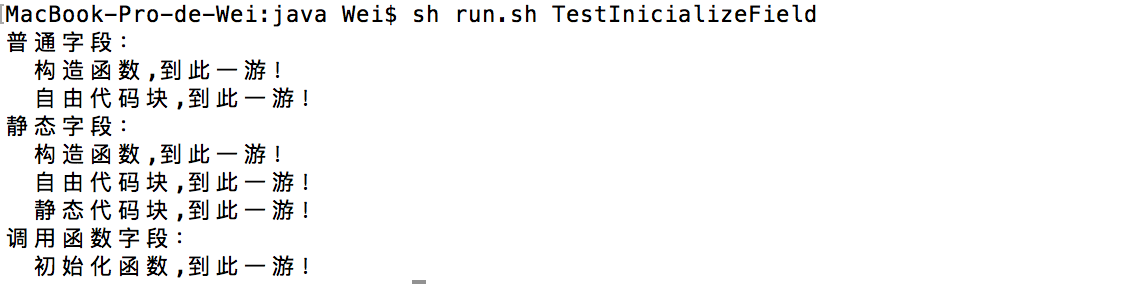
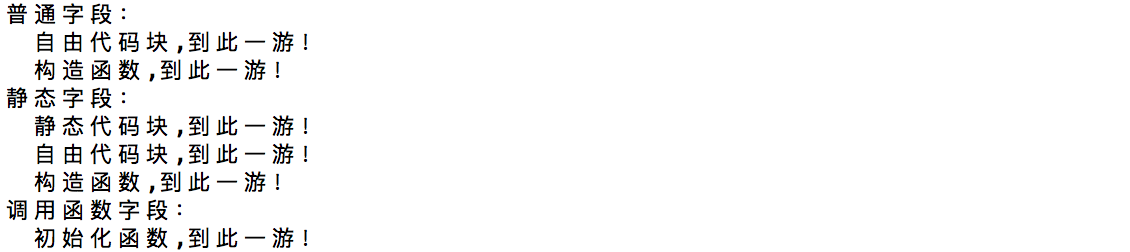
Hexo update!

Changed region(s): [[0.0, 0.0, 0.7447, 1.0], [0.3413, 0.9722, 0.3723, 1.0]]

diff --git a/2016/03/09/tij4-3/index.html b/2016/03/09/tij4-3/index.html
@@ -57,20 +57,21 @@
 
 
 
-<meta name="description" content="要认真看看Java Turorial：Java字段初始化实例化的方法：静态或者final初始化block。我这里搬运一下：
-可以简单在声明的同一行里，同时初始化，比如简单赋值（默认值）或者实例化（用new关键字），是可以的。比如，12345678public class BedAndBreakfast &amp;#123;    // initialize to 10    public static i">
+<meta name="description" content="摘要类中字段的初始化第二章课后练习的第11题中，遇到了字段初始化的问题。认真看了Java Turorial：Java字段初始化实例化的方法：静态或者final初始化block。我这里做个总结，然后通过一个示例具体演示一下。
+Java在声明类的字段的时候，可以简单在声明的同一行里，同时初始化，比如简单赋值（默认值）或者实例化（用new关键字）。比如以下代码，12345678public class">
 <meta property="og:type" content="article">
 <meta property="og:title" content="Think in Java 读书笔记：第三章 - 操作符">
 <meta property="og:url" content="www.ciaoshen.com/2016/03/09/tij4-3/index.html">
 <meta property="og:site_name" content="沈玮 | Wei SHEN">
-<meta property="og:description" content="要认真看看Java Turorial：Java字段初始化实例化的方法：静态或者final初始化block。我这里搬运一下：
-可以简单在声明的同一行里，同时初始化，比如简单赋值（默认值）或者实例化（用new关键字），是可以的。比如，12345678public class BedAndBreakfast &amp;#123;    // initialize to 10    public static i">
+<meta property="og:description" content="摘要类中字段的初始化第二章课后练习的第11题中，遇到了字段初始化的问题。认真看了Java Turorial：Java字段初始化实例化的方法：静态或者final初始化block。我这里做个总结，然后通过一个示例具体演示一下。
+Java在声明类的字段的时候，可以简单在声明的同一行里，同时初始化，比如简单赋值（默认值）或者实例化（用new关键字）。比如以下代码，12345678public class">
 <meta property="og:image" content="www.ciaoshen.com/uploads/tij4-3/oop_3.png">
-<meta property="og:updated_time" content="2016-03-09T22:03:23.000Z">
+<meta property="og:image" content="www.ciaoshen.com/uploads/tij4-3/initializeTest.png">
+<meta property="og:updated_time" content="2016-03-09T23:21:18.000Z">
 <meta name="twitter:card" content="summary">
 <meta name="twitter:title" content="Think in Java 读书笔记：第三章 - 操作符">
-<meta name="twitter:description" content="要认真看看Java Turorial：Java字段初始化实例化的方法：静态或者final初始化block。我这里搬运一下：
-可以简单在声明的同一行里，同时初始化，比如简单赋值（默认值）或者实例化（用new关键字），是可以的。比如，12345678public class BedAndBreakfast &amp;#123;    // initialize to 10    public static i">
+<meta name="twitter:description" content="摘要类中字段的初始化第二章课后练习的第11题中，遇到了字段初始化的问题。认真看了Java Turorial：Java字段初始化实例化的方法：静态或者final初始化block。我这里做个总结，然后通过一个示例具体演示一下。
+Java在声明类的字段的时候，可以简单在声明的同一行里，同时初始化，比如简单赋值（默认值）或者实例化（用new关键字）。比如以下代码，12345678public class">
 
 
 
@@ -340,22 +341,32 @@
 
       
         <p><img src="/uploads/tij4-3/oop_3.png" alt="oop_3"></p>
-<p>要认真看看Java Turorial：<a href="https://docs.oracle.com/javase/tutorial/java/javaOO/initial.html" target="_blank" rel="external"><strong>Java字段初始化实例化的方法：静态或者final初始化block</strong></a>。我这里搬运一下：</p>
-<p>可以简单在声明的同一行里，同时初始化，比如简单赋值（默认值）或者实例化（用new关键字），是可以的。比如，<br><figure class="highlight java"><table><tr><td class="gutter"><pre><span class="line">1</span><br><span class="line">2</span><br><span class="line">3</span><br><span class="line">4</span><br><span class="line">5</span><br><span class="line">6</span><br><span class="line">7</span><br><span class="line">8</span><br></pre></td><td class="code"><pre><span class="line"><span class="keyword">public</span> <span class="class"><span class="keyword">class</span> <span class="title">BedAndBreakfast</span> </span>&#123;</span><br><span class="line"></span><br><span class="line">    <span class="comment">// initialize to 10</span></span><br><span class="line">    <span class="keyword">public</span> <span class="keyword">static</span> <span class="keyword">int</span> capacity = <span class="number">10</span>;</span><br><span class="line"></span><br><span class="line">    <span class="comment">// initialize to false</span></span><br><span class="line">    <span class="keyword">private</span> <span class="keyword">boolean</span> full = <span class="keyword">false</span>;</span><br><span class="line">&#125;</span><br></pre></td></tr></table></figure></p>
-<p>但是，在声明后面直接跟复杂的对实例赋值，java是不允许的。比如这题我的HashMap的初始化，java一直报错。这时候放在构造方法里，是最保险的方法。比如这题我的处理方法，在构造方法里初始化HashMap，为其赋值。</p>
-<p>但还有三种方法允许我们把实例化赋值过程放到一个“特殊方法”里。</p>
+<h3 id="摘要"><a href="#摘要" class="headerlink" title="摘要"></a>摘要</h3><h3 id="类中字段的初始化"><a href="#类中字段的初始化" class="headerlink" title="类中字段的初始化"></a>类中字段的初始化</h3><p>第二章课后练习的第11题中，遇到了字段初始化的问题。认真看了Java Turorial：<a href="https://docs.oracle.com/javase/tutorial/java/javaOO/initial.html" target="_blank" rel="external"><strong>Java字段初始化实例化的方法：静态或者final初始化block</strong></a>。我这里做个总结，然后通过一个示例具体演示一下。</p>
+<p>Java在声明类的字段的时候，可以简单在声明的同一行里，同时初始化，比如简单赋值（默认值）或者实例化（用new关键字）。比如以下代码，<br><figure class="highlight java"><table><tr><td class="gutter"><pre><span class="line">1</span><br><span class="line">2</span><br><span class="line">3</span><br><span class="line">4</span><br><span class="line">5</span><br><span class="line">6</span><br><span class="line">7</span><br><span class="line">8</span><br></pre></td><td class="code"><pre><span class="line"><span class="keyword">public</span> <span class="class"><span class="keyword">class</span> <span class="title">BedAndBreakfast</span> </span>&#123;</span><br><span class="line"></span><br><span class="line">    <span class="comment">// initialize to 10</span></span><br><span class="line">    <span class="keyword">public</span> <span class="keyword">static</span> <span class="keyword">int</span> capacity = <span class="number">10</span>;</span><br><span class="line"></span><br><span class="line">    <span class="comment">// initialize to false</span></span><br><span class="line">    <span class="keyword">private</span> <span class="keyword">boolean</span> full = <span class="keyword">false</span>;</span><br><span class="line">&#125;</span><br></pre></td></tr></table></figure></p>
+<p>但是，在声明后面直接跟复杂的对实例赋值，java是不允许的。比如以下代码，<br><figure class="highlight java"><table><tr><td class="gutter"><pre><span class="line">1</span><br><span class="line">2</span><br><span class="line">3</span><br><span class="line">4</span><br><span class="line">5</span><br><span class="line">6</span><br><span class="line">7</span><br><span class="line">8</span><br><span class="line">9</span><br><span class="line">10</span><br><span class="line">11</span><br><span class="line">12</span><br><span class="line">13</span><br><span class="line">14</span><br></pre></td><td class="code"><pre><span class="line"><span class="keyword">public</span> <span class="class"><span class="keyword">class</span> <span class="title">BedAndBreakfast</span> </span>&#123;</span><br><span class="line"></span><br><span class="line">    <span class="comment">// initialize to 10</span></span><br><span class="line">    <span class="keyword">public</span> <span class="keyword">static</span> <span class="keyword">int</span> capacity = <span class="number">10</span>;</span><br><span class="line">    capacity = <span class="number">21</span>;</span><br><span class="line"></span><br><span class="line">    <span class="comment">// initialize to false</span></span><br><span class="line">    <span class="keyword">private</span> <span class="keyword">boolean</span> full;</span><br><span class="line">    <span class="keyword">if</span> (capacity&gt;<span class="number">20</span>) &#123;</span><br><span class="line">    	full=<span class="keyword">true</span>;</span><br><span class="line">    &#125; <span class="keyword">else</span> &#123;</span><br><span class="line">    	full=<span class="keyword">false</span>;</span><br><span class="line">    &#125;</span><br><span class="line">&#125;</span><br></pre></td></tr></table></figure></p>
+<p>这时候最常用的赋值方法是使用构造函数。比如这样写，把起床后的状态设为：饱了。<br><figure class="highlight java"><table><tr><td class="gutter"><pre><span class="line">1</span><br><span class="line">2</span><br><span class="line">3</span><br><span class="line">4</span><br><span class="line">5</span><br><span class="line">6</span><br><span class="line">7</span><br><span class="line">8</span><br><span class="line">9</span><br><span class="line">10</span><br><span class="line">11</span><br><span class="line">12</span><br><span class="line">13</span><br><span class="line">14</span><br><span class="line">15</span><br><span class="line">16</span><br><span class="line">17</span><br><span class="line">18</span><br></pre></td><td class="code"><pre><span class="line"><span class="keyword">public</span> <span class="class"><span class="keyword">class</span> <span class="title">BedAndBreakfast</span> </span>&#123;</span><br><span class="line"></span><br><span class="line">    <span class="comment">// initialize to 10</span></span><br><span class="line">    <span class="keyword">public</span> <span class="keyword">static</span> <span class="keyword">int</span> capacity = <span class="number">10</span>;</span><br><span class="line"></span><br><span class="line">    <span class="comment">// initialize to false</span></span><br><span class="line">    <span class="keyword">private</span> <span class="keyword">boolean</span> full = <span class="keyword">false</span>;</span><br><span class="line">    </span><br><span class="line">    <span class="comment">//constructor</span></span><br><span class="line">    <span class="function"><span class="keyword">public</span> <span class="title">BedAndBreakfast</span><span class="params">()</span> </span>&#123;</span><br><span class="line">    	capacity=<span class="number">21</span>;</span><br><span class="line">    	<span class="keyword">if</span> (capacity&gt;<span class="number">20</span>) &#123;</span><br><span class="line">    		<span class="keyword">this</span>.full=<span class="keyword">true</span>;</span><br><span class="line">    	&#125; <span class="keyword">else</span> &#123;</span><br><span class="line">    		<span class="keyword">this</span>.full=<span class="keyword">false</span>;</span><br><span class="line">    	&#125;</span><br><span class="line">    &#125;</span><br><span class="line">&#125;</span><br></pre></td></tr></table></figure></p>
+<p>但还有两种方法允许我们定义一个实例化赋值过程。</p>
+<h4 id="第一种：block"><a href="#第一种：block" class="headerlink" title="第一种：block"></a>第一种：block</h4><p><strong>block</strong>就是指类中以一对花括号<strong><code>{ }</code></strong>括起来的代码。<br><figure class="highlight java"><table><tr><td class="gutter"><pre><span class="line">1</span><br><span class="line">2</span><br><span class="line">3</span><br></pre></td><td class="code"><pre><span class="line">&#123;</span><br><span class="line">    <span class="comment">// whatever code is needed for initialization goes here</span></span><br><span class="line">&#125;</span><br></pre></td></tr></table></figure></p>
+<p>Java允许一个类的代码中有任意多个<strong>block</strong>。会在解析任意一个构造函数constructor之前，解析block里的代码。因此，block很适合用来存放所有构造函数共有的一些代码。</p>
+<p>给一个block加一个<strong><code>static</code></strong>关键字，就可以用来为静态字段赋值。<br><figure class="highlight java"><table><tr><td class="gutter"><pre><span class="line">1</span><br><span class="line">2</span><br><span class="line">3</span><br></pre></td><td class="code"><pre><span class="line"><span class="keyword">static</span> &#123;</span><br><span class="line">    <span class="comment">// whatever code is needed for static initialization goes here</span></span><br><span class="line">&#125;</span><br></pre></td></tr></table></figure></p>
+<h4 id="第二种：-定义并调用一个初始化的函数"><a href="#第二种：-定义并调用一个初始化的函数" class="headerlink" title="第二种： 定义并调用一个初始化的函数"></a>第二种： 定义并调用一个初始化的函数</h4><p>另一个方法是直接写一个返回值为字段类型的函数。这样再复杂的初始化过程都可以封装在函数中。一般我们加一个final关键字作防护，防止初始化代码在子类中被重载。具体代码如下，</p>
+<figure class="highlight java"><table><tr><td class="gutter"><pre><span class="line">1</span><br><span class="line">2</span><br><span class="line">3</span><br><span class="line">4</span><br><span class="line">5</span><br><span class="line">6</span><br><span class="line">7</span><br><span class="line">8</span><br></pre></td><td class="code"><pre><span class="line"><span class="class"><span class="keyword">class</span> <span class="title">Whatever</span> </span>&#123;</span><br><span class="line">    <span class="keyword">private</span> varType myVar = initializeInstanceVariable();</span><br><span class="line">    <span class="comment">//一般加上final关键字保护一下，可以防止在子类中被重载。</span></span><br><span class="line">    <span class="function"><span class="keyword">protected</span> <span class="keyword">final</span> varType <span class="title">initializeInstanceVariable</span><span class="params">()</span> </span>&#123;</span><br><span class="line"></span><br><span class="line">        <span class="comment">// initialization code goes here</span></span><br><span class="line">    &#125;</span><br><span class="line">&#125;</span><br></pre></td></tr></table></figure>
+<h4 id="实例演示"><a href="#实例演示" class="headerlink" title="实例演示"></a>实例演示</h4><p>实例里，我创建了3个队列（FIFO先进先出）。</p>
 <ol>
-<li>第一种：<strong>static block</strong>。Java允许一个类有很多静态初始化方法。给成员方法加个<strong>“static”</strong>关键字。赋值的时候就可以调用了。比如下面代码，</li>
+<li>一个是静态的。用静态block初始化。</li>
+<li>一个是正常用new初始化。会调用构造函数。</li>
+<li>一个直接用初始化函数初始化。</li>
 </ol>
-<figure class="highlight java"><table><tr><td class="gutter"><pre><span class="line">1</span><br><span class="line">2</span><br><span class="line">3</span><br><span class="line">4</span><br><span class="line">5</span><br><span class="line">6</span><br><span class="line">7</span><br><span class="line">8</span><br></pre></td><td class="code"><pre><span class="line"><span class="class"><span class="keyword">class</span> <span class="title">Whatever</span> </span>&#123;</span><br><span class="line">    <span class="keyword">public</span> <span class="keyword">static</span> varType myVar = initializeClassVariable();</span><br><span class="line">        </span><br><span class="line">    <span class="function"><span class="keyword">private</span> <span class="keyword">static</span> varType <span class="title">initializeClassVariable</span><span class="params">()</span> </span>&#123;</span><br><span class="line"></span><br><span class="line">        <span class="comment">// initialization code goes here</span></span><br><span class="line">    &#125;</span><br><span class="line">&#125;</span><br></pre></td></tr></table></figure>
+<p>每个初始化过程一旦对某个字段赋值了，就会留下”某某某，到此一游！”的标记，存在队列里。最后打印队列，就能知道初始化过程访问字段并赋值的先后顺序。</p>
+<figure class="highlight java"><table><tr><td class="gutter"><pre><span class="line">1</span><br><span class="line">2</span><br><span class="line">3</span><br><span class="line">4</span><br><span class="line">5</span><br><span class="line">6</span><br><span class="line">7</span><br><span class="line">8</span><br><span class="line">9</span><br><span class="line">10</span><br><span class="line">11</span><br><span class="line">12</span><br><span class="line">13</span><br><span class="line">14</span><br><span class="line">15</span><br><span class="line">16</span><br><span class="line">17</span><br><span class="line">18</span><br><span class="line">19</span><br><span class="line">20</span><br><span class="line">21</span><br><span class="line">22</span><br><span class="line">23</span><br><span class="line">24</span><br><span class="line">25</span><br><span class="line">26</span><br><span class="line">27</span><br><span class="line">28</span><br><span class="line">29</span><br><span class="line">30</span><br><span class="line">31</span><br><span class="line">32</span><br><span class="line">33</span><br><span class="line">34</span><br><span class="line">35</span><br><span class="line">36</span><br><span class="line">37</span><br><span class="line">38</span><br><span class="line">39</span><br><span class="line">40</span><br><span class="line">41</span><br><span class="line">42</span><br><span class="line">43</span><br><span class="line">44</span><br><span class="line">45</span><br><span class="line">46</span><br><span class="line">47</span><br><span class="line">48</span><br><span class="line">49</span><br><span class="line">50</span><br><span class="line">51</span><br><span class="line">52</span><br><span class="line">53</span><br><span class="line">54</span><br><span class="line">55</span><br><span class="line">56</span><br><span class="line">57</span><br><span class="line">58</span><br><span class="line">59</span><br><span class="line">60</span><br><span class="line">61</span><br><span class="line">62</span><br><span class="line">63</span><br><span class="line">64</span><br><span class="line">65</span><br><span class="line">66</span><br><span class="line">67</span><br><span class="line">68</span><br><span class="line">69</span><br><span class="line">70</span><br><span class="line">71</span><br><span class="line">72</span><br><span class="line">73</span><br><span class="line">74</span><br><span class="line">75</span><br><span class="line">76</span><br><span class="line">77</span><br><span class="line">78</span><br><span class="line">79</span><br><span class="line">80</span><br><span class="line">81</span><br><span class="line">82</span><br><span class="line">83</span><br><span class="line">84</span><br><span class="line">85</span><br><span class="line">86</span><br><span class="line">87</span><br></pre></td><td class="code"><pre><span class="line"><span class="comment">/**</span><br><span class="line"> *  This class is used to test different way of initializing fields in a class.</span><br><span class="line"> *</span><br><span class="line"> *  We attempt to assign values in three different ways:</span><br><span class="line"> *      1. constructor</span><br><span class="line"> *      2. block</span><br><span class="line"> *      3. inicialize method</span><br><span class="line"> *</span><br><span class="line"> *  <span class="doctag">@author</span> Wei SHEN</span><br><span class="line"> *  <span class="doctag">@author</span> wei.shen<span class="doctag">@iro</span>.umontreal.ca</span><br><span class="line"> *  <span class="doctag">@version</span> 1.0</span><br><span class="line"> */</span></span><br><span class="line"></span><br><span class="line"><span class="keyword">package</span> com.ciaoshen.thinkinjava.chapter3;</span><br><span class="line"></span><br><span class="line"><span class="keyword">import</span> java.util.*;</span><br><span class="line"></span><br><span class="line"><span class="comment">/**</span><br><span class="line"> *  Our class used to implement this test.</span><br><span class="line"> */</span></span><br><span class="line"><span class="keyword">public</span> <span class="class"><span class="keyword">class</span> <span class="title">TestInicializeField</span> </span>&#123;</span><br><span class="line"></span><br><span class="line">    <span class="comment">//Three queues: invisible to users</span></span><br><span class="line">    <span class="keyword">private</span> LinkedList&lt;String&gt; blockVisitor = <span class="keyword">new</span> LinkedList&lt;String&gt;();</span><br><span class="line">    <span class="keyword">private</span> <span class="keyword">static</span> LinkedList&lt;String&gt; staticBlockVisitor = <span class="keyword">new</span> LinkedList&lt;String&gt;();</span><br><span class="line">    <span class="keyword">private</span> LinkedList&lt;String&gt; methodVisitor = createVisitor();</span><br><span class="line"></span><br><span class="line">    <span class="comment">//constructor of the class</span></span><br><span class="line">    <span class="function"><span class="keyword">public</span> <span class="title">TestInicializeField</span><span class="params">()</span></span>&#123;</span><br><span class="line">        <span class="comment">//constuctorHashMap is inicialized by constructor.</span></span><br><span class="line">        staticBlockVisitor.push(<span class="string">"构造函数,到此一游！"</span>);</span><br><span class="line">        <span class="keyword">this</span>.blockVisitor.push(<span class="string">"构造函数,到此一游！"</span>);</span><br><span class="line">    &#125;</span><br><span class="line">    </span><br><span class="line">    <span class="comment">//free initialize block</span></span><br><span class="line">    &#123;</span><br><span class="line">        staticBlockVisitor.push(<span class="string">"自由代码块,到此一游！"</span>);</span><br><span class="line">        <span class="keyword">this</span>.blockVisitor.push(<span class="string">"自由代码块,到此一游！"</span>);</span><br><span class="line">    &#125;</span><br><span class="line">    </span><br><span class="line">    <span class="comment">//static initialize block</span></span><br><span class="line">    <span class="keyword">static</span>&#123;</span><br><span class="line">        staticBlockVisitor.push(<span class="string">"静态代码块,到此一游！"</span>);</span><br><span class="line">    &#125;</span><br><span class="line">    </span><br><span class="line">    <span class="comment">//initialize method</span></span><br><span class="line">    <span class="function"><span class="keyword">private</span> LinkedList&lt;String&gt; <span class="title">createVisitor</span><span class="params">()</span></span>&#123;</span><br><span class="line">        LinkedList&lt;String&gt; newQueue = <span class="keyword">new</span> LinkedList&lt;String&gt;();</span><br><span class="line">        newQueue.push(<span class="string">"初始化函数,到此一游！"</span>);</span><br><span class="line">        <span class="keyword">return</span> newQueue;</span><br><span class="line">    &#125;</span><br><span class="line">    </span><br><span class="line">   </span><br><span class="line">    <span class="comment">/**</span><br><span class="line">     *  Responsable for printing the content in no metter which HashMap.</span><br><span class="line">     *  invisible to users</span><br><span class="line">     *  <span class="doctag">@param</span> aHashMap Just give me a HashMap please.</span><br><span class="line">     */</span></span><br><span class="line">    <span class="function"><span class="keyword">private</span> <span class="keyword">void</span> <span class="title">printQueue</span><span class="params">(LinkedList&lt;String&gt; aQueue)</span></span>&#123;</span><br><span class="line">        <span class="keyword">while</span> (aQueue.peekFirst()!=<span class="keyword">null</span>)&#123;</span><br><span class="line">            System.out.println(<span class="string">"  "</span>+aQueue.pollFirst());</span><br><span class="line">        &#125;</span><br><span class="line">    &#125;</span><br><span class="line">    </span><br><span class="line">    <span class="comment">/**</span><br><span class="line">     *  Print two HashMap fields in this class one by one.</span><br><span class="line">     *  The only interface in this class for user.</span><br><span class="line">     *  <span class="doctag">@param</span> Need no parameter.</span><br><span class="line">     */</span></span><br><span class="line">    <span class="function"><span class="keyword">public</span> <span class="keyword">void</span> <span class="title">printThreeVisitor</span><span class="params">()</span></span>&#123;</span><br><span class="line">        System.out.println(<span class="string">"普通字段： "</span>);</span><br><span class="line">        <span class="keyword">this</span>.printQueue(<span class="keyword">this</span>.blockVisitor);</span><br><span class="line">        System.out.println(<span class="string">"静态字段： "</span>);</span><br><span class="line">        <span class="keyword">this</span>.printQueue(staticBlockVisitor);</span><br><span class="line">        System.out.println(<span class="string">"调用函数字段："</span>);</span><br><span class="line">        <span class="keyword">this</span>.printQueue(<span class="keyword">this</span>.methodVisitor);</span><br><span class="line">    &#125;</span><br><span class="line">    </span><br><span class="line">    <span class="comment">/**</span><br><span class="line">     *  Main method. Just create a new object of this class, and see what happend.</span><br><span class="line">     *  <span class="doctag">@param</span> args Need no parameter.</span><br><span class="line">     */</span></span><br><span class="line">    <span class="function"><span class="keyword">public</span> <span class="keyword">static</span> <span class="keyword">void</span> <span class="title">main</span> <span class="params">(String args[])</span></span>&#123;</span><br><span class="line">        TestInicializeField myTest = <span class="keyword">new</span> TestInicializeField();</span><br><span class="line">        myTest.printThreeVisitor();</span><br><span class="line">    &#125;  </span><br><span class="line">&#125;</span><br></pre></td></tr></table></figure>
+<p>输出结果：<br><img src="/uploads/tij4-3/initializeTest.png" alt="initializeTest"><br>从结果中可以看到无论测试类中block，赋值函数，以及构造函数的顺序怎么摆放，最后的输出结果都显示java处理赋值的固定顺序是：</p>
 <ol>
-<li>第二种： <strong>final block</strong>。final方法不能被子类继承。 下面的代码可以被用来初始化字段，</li>
+<li>静态block</li>
+<li>普通block</li>
+<li>构造函数</li>
 </ol>
-<figure class="highlight java"><table><tr><td class="gutter"><pre><span class="line">1</span><br><span class="line">2</span><br><span class="line">3</span><br><span class="line">4</span><br><span class="line">5</span><br><span class="line">6</span><br><span class="line">7</span><br><span class="line">8</span><br></pre></td><td class="code"><pre><span class="line"><span class="class"><span class="keyword">class</span> <span class="title">Whatever</span> </span>&#123;</span><br><span class="line">    <span class="keyword">private</span> varType myVar = initializeInstanceVariable();</span><br><span class="line">        </span><br><span class="line">    <span class="function"><span class="keyword">protected</span> <span class="keyword">final</span> varType <span class="title">initializeInstanceVariable</span><span class="params">()</span> </span>&#123;</span><br><span class="line"></span><br><span class="line">        <span class="comment">// initialization code goes here</span></span><br><span class="line">    &#125;</span><br><span class="line">&#125;</span><br></pre></td></tr></table></figure>
-<ol>
-<li>第三种： 最好的一种，<strong>initialize block</strong>。和<strong>static block</strong>一样，只是不用static关键字。而且，这个initializer会被后面所有的构造方法自动加载。可以把构造方法共同的代码部分提出来放到initializer里。</li>
-</ol>
-<figure class="highlight java"><table><tr><td class="gutter"><pre><span class="line">1</span><br><span class="line">2</span><br><span class="line">3</span><br><span class="line">4</span><br><span class="line">5</span><br><span class="line">6</span><br><span class="line">7</span><br><span class="line">8</span><br></pre></td><td class="code"><pre><span class="line"><span class="class"><span class="keyword">class</span> <span class="title">Whatever</span> </span>&#123;</span><br><span class="line">    <span class="keyword">public</span> varType myVar = initializeClassVariable();</span><br><span class="line">        </span><br><span class="line">    <span class="function"><span class="keyword">private</span> varType <span class="title">initializeClassVariable</span><span class="params">()</span> </span>&#123;</span><br><span class="line"></span><br><span class="line">        <span class="comment">// initialization code goes here</span></span><br><span class="line">    &#125;</span><br><span class="line">&#125;</span><br></pre></td></tr></table></figure>
+<p>这和java tutorial的描述相符，在调用构造函数之前，java编译器会自动把block中的代码复制到构造函数里，而且是置于构造函数代码的前面。然后，静态block的优先级当然是高于普通block，因为静态字段是在所有实例化之前完成的动作。</p>
+<p>然后我们看到，直接调用初始化函数赋值的话，就不会再调用构造函数，自然也就不包括所有的block。</p>
 
       
     </div>
@@ -524,7 +535,7 @@
               
             
             
-              <p class="post-toc-empty">This post does not have a Table of Contents</p>
+              <div class="post-toc-content"><ol class="nav"><li class="nav-item nav-level-3"><a class="nav-link" href="#摘要"><span class="nav-number">1.</span> <span class="nav-text">摘要</span></a></li><li class="nav-item nav-level-3"><a class="nav-link" href="#类中字段的初始化"><span class="nav-number">2.</span> <span class="nav-text">类中字段的初始化</span></a><ol class="nav-child"><li class="nav-item nav-level-4"><a class="nav-link" href="#第一种：block"><span class="nav-number">2.1.</span> <span class="nav-text">第一种：block</span></a></li><li class="nav-item nav-level-4"><a class="nav-link" href="#第二种：-定义并调用一个初始化的函数"><span class="nav-number">2.2.</span> <span class="nav-text">第二种： 定义并调用一个初始化的函数</span></a></li><li class="nav-item nav-level-4"><a class="nav-link" href="#实例演示"><span class="nav-number">2.3.</span> <span class="nav-text">实例演示</span></a></li></ol></li></ol></div>
             
           </div>
           <div class="post-toc-indicator-bottom post-toc-indicator">

diff --git a/index.html b/index.html
@@ -360,8 +360,8 @@
         
           
           
-要认真看看Java Turorial：Java字段初始化实例化的方法：静态或者final初始化block。我这里搬运一下：
-可以简单在声明的同一行里，同时初始化，比如简单赋值（默认值）或者实例化（用new关键字），是可以的。比如，12345678public class BedAndBreakfa
+摘要类中字段的初始化第二章课后练习的第11题中，遇到了字段初始化的问题。认真看了Java Turorial：Java字段初始化实例化的方法：静态或者final初始化block。我这里做个总结，然后通过一个示例具体演示一下。
+Java在声明类的字段的时候，可以简单在声明的同一行里，同时初始化，比如简
           ...
 
           <div class="post-more-link text-center">

diff --git a/css/main.css b/css/main.css
@@ -1523,7 +1523,7 @@ pre .javascript .function {
   width: 4px;
   height: 4px;
   border-radius: 50%;
-  background: #ffc8ff;
+  background: #96361a;
 }
 .sidebar-nav {
   margin: 0 0 20px;
